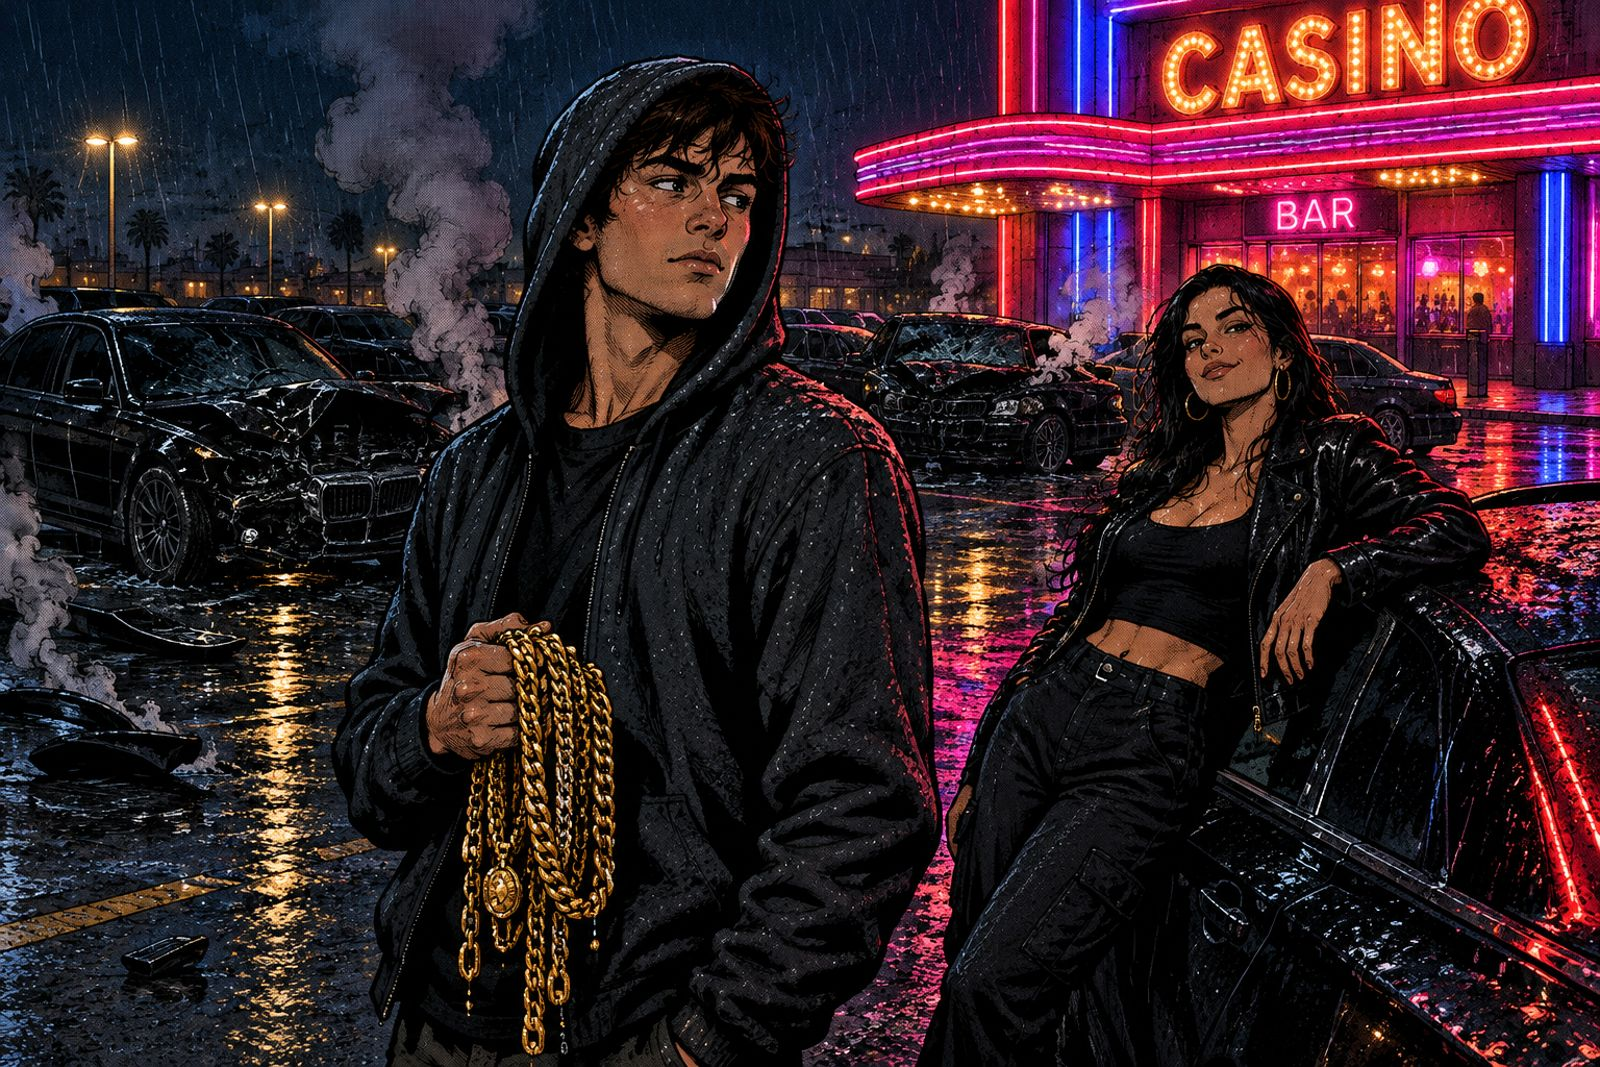
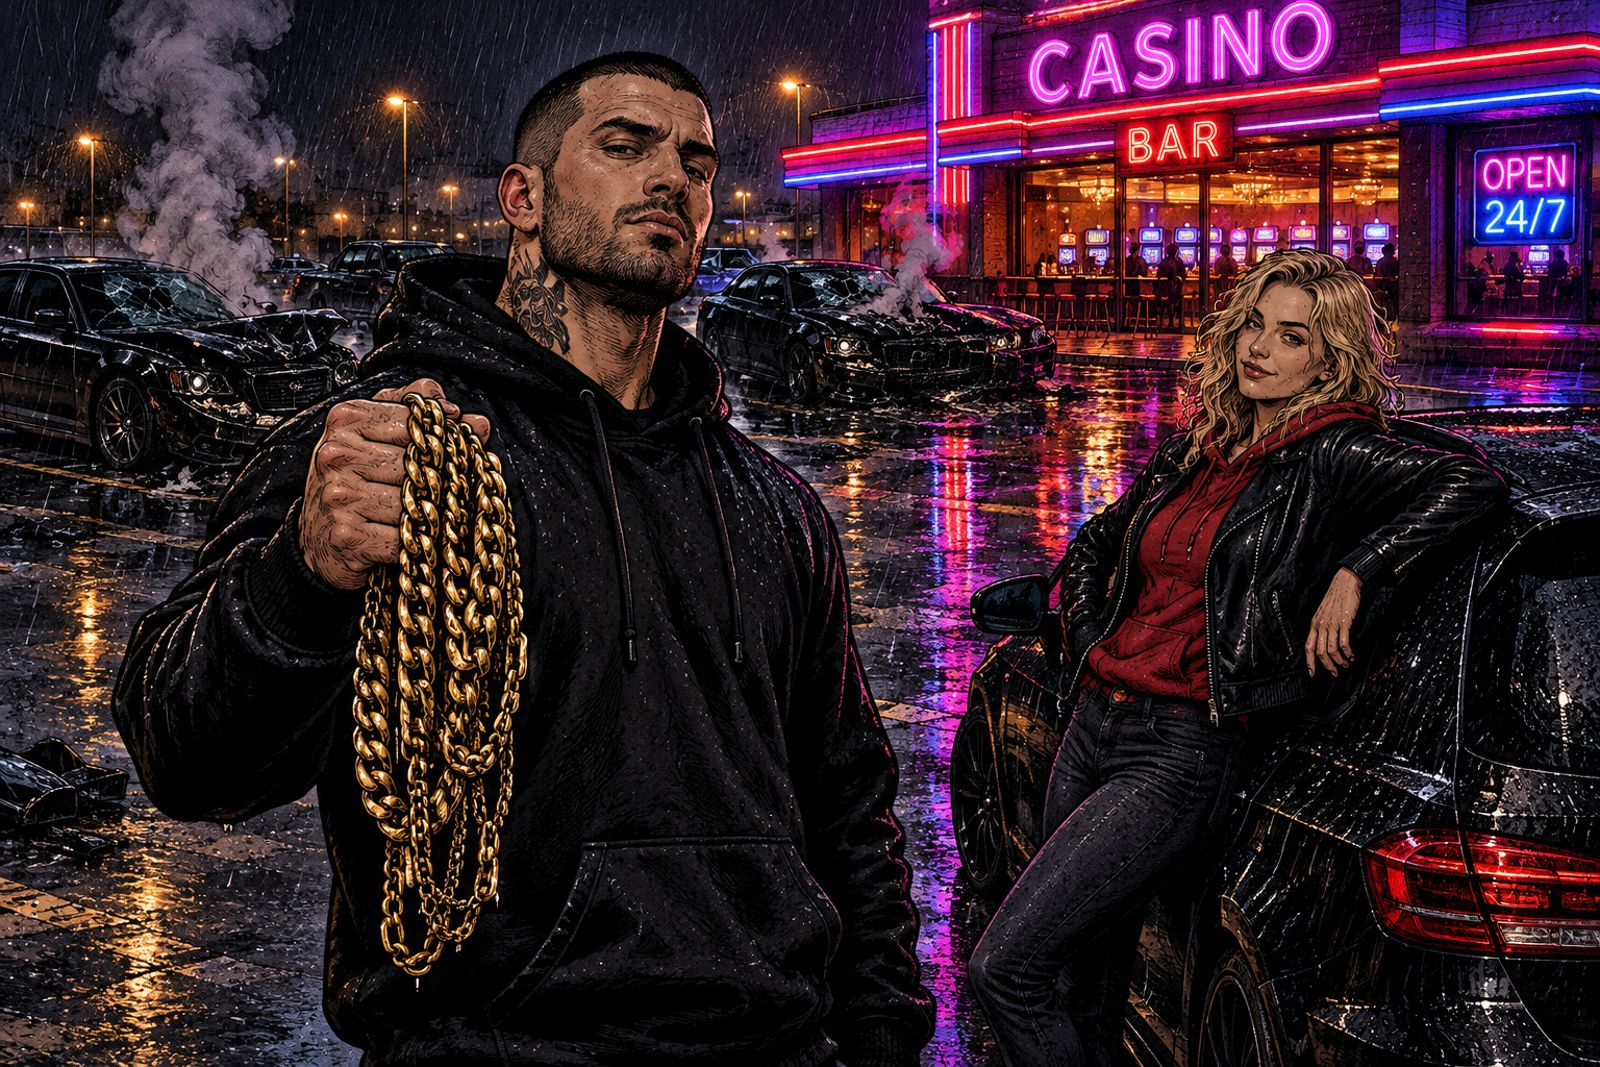
Hero-specific action button in the city and races: Marek 'Šrot' shoots (PAL), Lucie 'Kočka' uses nitro; separate gun button removed. Comic panels and endings with Lucie and Marek redrawn to match their character cards
Claude-Session: https://claude.ai/code/session_01Tt18V6mhpxc2nVgtq6weTV

diff --git a/public/index.html b/public/index.html
@@ -1298,7 +1298,7 @@ function comicScene(name){
   {const dy=(name==='plaza'||name==='plaza2'?21:19)*8*T;sc.y+=dy;for(const o of w.cars)o.y+=dy;for(const o of w.peds)o.y+=dy;for(const o of w.parts)o.y+=dy;for(const k of w.skids){k[1]+=dy;k[3]+=dy}}
   return{w,sc}}
 function renderPanel(){const el=$('scr-comic'),C=comic.C,P=C.panels[comic.i];
-  let h=`<div class="tag" style="margin-bottom:8px">${C.title}</div><div class="panel" id="panel">${P.art?`<div class="art" style="background-image:url(art/${P.art}.jpg)"></div>`:'<canvas id="pcv"></canvas>'}<div class="halftone"></div>`;
+  let h=`<div class="tag" style="margin-bottom:8px">${C.title}</div><div class="panel" id="panel">${P.art?`<div class="art" style="background-image:url(art/${P.art}.jpg?v=3)"></div>`:'<canvas id="pcv"></canvas>'}<div class="halftone"></div>`;
   if(P.who){if(P.who[0])h+=`<div class="inset l" style="background-image:url(art/${P.who[0]}.jpg)"></div>`;if(P.who[1])h+=`<div class="inset r" style="background-image:url(art/${P.who[1]}.jpg)"></div>`}
   if(P.cap)h+=`<div class="cap">${P.cap}</div>`;
   for(const b of P.bubs||[])h+=`<div class="bub ${b.shout?'shout':''}" style="left:${b.x}%;top:${b.y}%"><small>${WHO_NAME[b.w]}</small>${b.t}</div>`;
@@ -1320,19 +1320,19 @@ function startRoam(at,target){AN.ev('roam_start');hideAll();G.engineOff=false;$(
   const car=CARS.find(c=>c.id===SAVE.car)||CARS[0];const p=makeCar(Object.assign({},car),at.x,at.y,at.a,'player');p.handMul=SAVE.hero==='lucie'?1.15:1;w.player=p;w.cars.push(p);
   w.cam={x:p.x,y:p.y};w.zoom=baseZoom();for(let i=0;i<11;i++)spawnCiv(w);for(let i=0;i<48;i++)spawnPed(w,40,520);
   RS={roam:true,nitro:.6,nitroFill:SAVE.hero==='lucie'?.098:.07,target:target||SAVE.sel||null,enterCD:2.5};G.roamDist='';
-  $('hud').classList.add('on');if(isTouch)$('ctrl').classList.add('on');$('kU').style.display=SAVE.autoGas?'none':'block';$('kAt').textContent='NITRO';$('kA').classList.remove('hot');
+  $('hud').classList.add('on');if(isTouch)$('ctrl').classList.add('on');$('kU').style.display=SAVE.autoGas?'none':'block';$('kAt').textContent=SAVE.hero==='marek'?'PAL':'NITRO';$('kA').classList.remove('hot');
   $('hMainL').textContent='ČTVRŤ';$('hMain').classList.add('small');$('bust').style.display='none';$('center').textContent='';$('obj').classList.add('on');
   $('hint').textContent=isTouch?'':'←→ řízení • ↑ plyn • ↓ brzda • MEZERNÍK nitro • SHIFT smyk • C kamera • R rádio • P pauza';if(isTouch&&effSteer()==='wheel'&&!SAVE.wheelTip){SAVE.wheelTip=1;save();floatMsg('🛞 TOČ VOLANTEM PRSTEM',3);}
   Snd.setCar&&Snd.setCar(SAVE.car);Snd.startMusic(false);Snd.setStyle(SAVE.radio||'macht');Snd.rain(w.rain);drawMinimapBg();setTimeout(()=>{const a=$('area');if(G.mode==='roam'){a.textContent='📻 '+STY[Snd.style].name;a.classList.add('on');areaT=2.2}},2600)}
 let areaT=0;
-function freeGun(w,p,dt){RS.gCD=(RS.gCD||0)-dt;if(RS.gOver){RS.gHeat-=dt*.45;if(RS.gHeat<=.25)RS.gOver=false}else RS.gHeat=Math.max(0,(RS.gHeat||0)-dt*.3);
-  if(G.keys.f&&!RS.gOver&&RS.gCD<=0){RS.gCD=.1;let a=p.a,best=null,bd=1e9;for(const c of w.cars){if(c===p||c.wreck||c.parked)continue;const dx=c.x-p.x,dy=c.y-p.y,d=Math.hypot(dx,dy);if(d>480)continue;const da=Math.abs(wrapA(Math.atan2(dy,dx)-p.a));if(da<.5&&d<bd){bd=d;best=c}}
+function freeGun(w,p,dt,fire){RS.gCD=(RS.gCD||0)-dt;if(RS.gOver){RS.gHeat-=dt*.45;if(RS.gHeat<=.25)RS.gOver=false}else RS.gHeat=Math.max(0,(RS.gHeat||0)-dt*.3);
+  if(fire&&!RS.gOver&&RS.gCD<=0){RS.gCD=.1;let a=p.a,best=null,bd=1e9;for(const c of w.cars){if(c===p||c.wreck||c.parked)continue;const dx=c.x-p.x,dy=c.y-p.y,d=Math.hypot(dx,dy);if(d>480)continue;const da=Math.abs(wrapA(Math.atan2(dy,dx)-p.a));if(da<.5&&d<bd){bd=d;best=c}}
     if(best)a=Math.atan2(best.y-p.y,best.x-p.x);a+=rr(-.05,.05);const ca=Math.cos(p.a),sa=Math.sin(p.a);
     w.bullets.push({x:p.x+ca*p.L*.55-sa*6,y:p.y+sa*p.L*.55+ca*6,vx:Math.cos(a)*950+p.vx,vy:Math.sin(a)*950+p.vy,life:.5,dmg:12});w.muzzle=.05;Snd.shot();RS.gHeat+=.055;if(RS.gHeat>=1){RS.gHeat=1;RS.gOver=true;floatMsg('PŘEHŘÁTO!',.7)}}
-  w.muzzle=Math.max(0,(w.muzzle||0)-dt);const k=$('kF');k.style.setProperty('--p',((1-(RS.gHeat||0))*100)+'%');k.classList.toggle('hot',!!RS.gOver)}
+  w.muzzle=Math.max(0,(w.muzzle||0)-dt)}
 function updateRoam(dt){const w=G.world,p=w.player;
-  const ctl=playerCtl();const act=G.keys.a;freeGun(w,p,dt);
-  if(act&&!RS.aPrev){RS.nLatch=!RS.nLatch&&RS.nitro>.08}RS.aPrev=act;if(RS.nLatch&&RS.nitro>.02){if(!p.boost)Snd.nitro();p.boost=true;RS.nitro=Math.max(0,RS.nitro-.42*dt)}else{p.boost=false;RS.nLatch=false;RS.nitro=Math.min(1,RS.nitro+RS.nitroFill*dt)}$('kA').style.setProperty('--p',(RS.nitro*100)+'%');$('kA').classList.toggle('hot',!!RS.nLatch);
+  const ctl=playerCtl();const act=G.keys.a;
+  if(SAVE.hero==='marek'){freeGun(w,p,dt,act);p.boost=false;$('kA').style.setProperty('--p',((1-(RS.gHeat||0))*100)+'%');$('kA').classList.toggle('hot',!!RS.gOver)}else{if(act&&!RS.aPrev){RS.nLatch=!RS.nLatch&&RS.nitro>.08}RS.aPrev=act;if(RS.nLatch&&RS.nitro>.02){if(!p.boost)Snd.nitro();p.boost=true;RS.nitro=Math.max(0,RS.nitro-.42*dt)}else{p.boost=false;RS.nLatch=false;RS.nitro=Math.min(1,RS.nitro+RS.nitroFill*dt)}$('kA').style.setProperty('--p',(RS.nitro*100)+'%');$('kA').classList.toggle('hot',!!RS.nLatch)}
   updateWorld(w,dt,ctl);driftUpdate(p,w,dt,true);if(p.hp<p.maxhp)p.hp=Math.min(p.maxhp,p.hp+dt*3);if(p.hp<=5)p.hp=5;
   const sp=Math.hypot(p.vx,p.vy);w.cam.x=lerp(w.cam.x,p.x+p.vx*.42,Math.min(1,dt*4));w.cam.y=lerp(w.cam.y,p.y+p.vy*.42,Math.min(1,dt*4));
   w.zoom=lerp(w.zoom||baseZoom(),baseZoom()*(1-clamp(sp/p.st.max,0,1.3)*.2),Math.min(1,dt*2));shakeA=Math.max(0,shakeA-dt*30);
@@ -1378,7 +1378,7 @@ function beginRace(L){hideAll();const w=newWorld({rain:L.rain,dark:L.dark,civMax
   w.cam={x:p.x,y:p.y};for(const c of w.cars)c.frozen=true;
   $('hud').classList.add('on');if(isTouch)$('ctrl').classList.add('on');
   $('kU').style.display=SAVE.autoGas?'none':'block';
-  $('kAt').textContent=L.type==='race'?'NITRO':'PAL';
+  $('kAt').textContent=L.type==='race'&&SAVE.hero!=='marek'?'NITRO':'PAL';
   $('hint').textContent=isTouch?'':(L.type==='race'?'←→ řízení • ↑ plyn • ↓ brzda • MEZERNÍK nitro • SHIFT smyk • C kamera • R rádio • P pauza':'←→ řízení • ↑ plyn • ↓ brzda • MEZERNÍK střelba • P pauza');
   $('keyB').style.display='none';G.engineOff=false;
   $('hMainL').textContent=L.type==='race'?'POZICE':L.kills?'ZNIČENO':L.time?'ČAS':'DO CÍLE';$('hMain').classList.remove('small');$('obj').classList.remove('on');$('area').classList.remove('on');
@@ -1510,7 +1510,7 @@ let lastEff='';function applySteerMode(){const m=effSteer();lastEff=m;document.b
 function updateRace(dt){const w=G.world,p=w.player,L=RS.L;RS.t+=dt;
   if(RS.count>0){RS.count-=dt;const n=Math.ceil(RS.count-.4);$('center').textContent=RS.count>.4?(L.type==='race'?String(n):'JEĎ!'):'JEĎ!';if(RS.count<=0){for(const c of w.cars)c.frozen=false;floatMsg('JEĎ!',.8)}}
   else if(msgT>0){msgT-=dt;if(msgT<=0)$('center').textContent=''}
-  const ctl=RS.end?{thr:-1,steer:0}:playerCtl();if(L.type==='race'&&!RS.end&&RS.count<=0)freeGun(w,p,dt);
+  const ctl=RS.end?{thr:-1,steer:0}:playerCtl();const shR=L.type==='race'&&SAVE.hero==='marek';if(shR&&!RS.end&&RS.count<=0)freeGun(w,p,dt,G.keys.a);
   // action
   const act=G.keys.a&&!RS.end&&RS.count<=0;
   if(L.type==='chase'){RS.fireCD-=dt;if(RS.over){RS.heat-=dt*.45;if(RS.heat<=.25)RS.over=false}else RS.heat=Math.max(0,RS.heat-dt*.32);
@@ -1519,7 +1519,7 @@ function updateRace(dt){const w=G.world,p=w.player,L=RS.L;RS.t+=dt;
       w.bullets.push({x:p.x+ca*p.L*.55-sa*6,y:p.y+sa*p.L*.55+ca*6,vx:Math.cos(a)*950+p.vx,vy:Math.sin(a)*950+p.vy,life:.5,dmg:10*RS.dmgMul});w.muzzle=.05;Snd.shot();RS.heat+=RS.heatPer;if(RS.heat>=1){RS.heat=1;RS.over=true;floatMsg('PŘEHŘÁTO!',.7)}}
     w.muzzle=Math.max(0,(w.muzzle||0)-dt);
     $('kA').style.setProperty('--p',((1-RS.heat)*100)+'%');$('kA').classList.toggle('hot',RS.over);
-  }else{if(act&&!RS.aPrev){RS.nLatch=!RS.nLatch&&RS.nitro>.08}RS.aPrev=act;if(RS.nLatch&&RS.nitro>.02){if(!p.boost)Snd.nitro();p.boost=true;RS.nitro=Math.max(0,RS.nitro-.42*dt)}else{p.boost=false;RS.nLatch=false;RS.nitro=Math.min(1,RS.nitro+RS.nitroFill*dt)}$('kA').style.setProperty('--p',(RS.nitro*100)+'%');$('kA').classList.toggle('hot',!!RS.nLatch);}
+  }else if(shR){$('kA').style.setProperty('--p',((1-(RS.gHeat||0))*100)+'%');$('kA').classList.toggle('hot',!!RS.gOver)}else{if(act&&!RS.aPrev){RS.nLatch=!RS.nLatch&&RS.nitro>.08}RS.aPrev=act;if(RS.nLatch&&RS.nitro>.02){if(!p.boost)Snd.nitro();p.boost=true;RS.nitro=Math.max(0,RS.nitro-.42*dt)}else{p.boost=false;RS.nLatch=false;RS.nitro=Math.min(1,RS.nitro+RS.nitroFill*dt)}$('kA').style.setProperty('--p',(RS.nitro*100)+'%');$('kA').classList.toggle('hot',!!RS.nLatch);}
   updateWorld(w,dt,ctl);if(!RS.end&&RS.count<=0)driftUpdate(p,w,dt,false);
   for(const c of w.cars)if(w.route&&(c.kind!=='civ'))progress(w,c);
   // camera
@@ -1723,7 +1723,7 @@ function frame(now){const dt=Math.min(REC?.1:.033,(now-last)/1000);last=now;
       const Zm=baseZoom()*1.15*(G.menuZoom||1);if($('scr-menu').classList.contains('on')&&w.userPan){}else if($('scr-menu').classList.contains('on')&&w.stage){const tx=w.stage.x-VW*.17/Zm+Math.sin(w.t*.15)*30,ty=w.stage.y-VH*.14/Zm;if(Math.hypot(w.cam.x-tx,w.cam.y-ty)>900){w.cam.x=tx;w.cam.y=ty}w.cam.x=lerp(w.cam.x,tx,dt*1.5);w.cam.y=lerp(w.cam.y,ty,dt*1.5)}else if(amb.tgt){w.cam.x=lerp(w.cam.x,amb.tgt.x,dt*.8);w.cam.y=lerp(w.cam.y,amb.tgt.y,dt*.8)}w.zoom=Zm}}}
   if($('scr-garage').classList.contains('on')&&typeof R3!=='undefined'&&R3.ok){if(R3.concept&&(!R3.gCar||G.g3!==gList()[gIdx].id+R3.tuneKey(gList()[gIdx].id))){garage3D();if(!$('gstage'))renderGarage()}{const r=$('gstage')&&$('gstage').getBoundingClientRect();R3.gView=r&&r.width?{x:r.left+r.width/2,y:r.top+r.height/2,w:r.width,h:r.height}:null}if(R3.garageRender(dt)){ctx.clearRect(0,0,VW,VH);requestAnimationFrame(frame);return}}
   const w=G.world;const O3={labels:menuOn()&&(G.menuZoom||1)<.8,arrow:G.mode==='race',arrowTo:G.mode==='roam'&&RS?RS.arrowTo:null,markers:G.mode==='roam'?MARKERS():null};
-  if(w&&typeof R3!=='undefined'&&R3.ok){R3.camMode=(G.mode==='roam'||G.mode==='race')?(SAVE.cam||'chase'):(G.mode==='ambient'||G.mode==='promo')?'cine':'top';document.body.classList.toggle('driving',G.mode==='roam'||G.mode==='race');document.body.classList.toggle('gun',G.mode==='roam'||(G.mode==='race'&&!!RS&&!!RS.L&&RS.L.type==='race'));document.body.classList.toggle('cock',R3.camMode==='cockpit'&&!!(w.player&&R3.cars.get(w.player)&&R3.cars.get(w.player).userData.concept));R3.render(w,O3,dt);overlay3D(ctx,w,VW,VH,O3)}else if(w&&G.mode!=='ambient'&&G.mode!=='promo')render(ctx,w,VW,VH,w.cam,w.zoom||baseZoom(),{labels:menuOn()&&(G.menuZoom||1)<.8,arrow:G.mode==='race',arrowTo:G.mode==='roam'&&RS?RS.arrowTo:null,markers:G.mode==='roam'?MARKERS():null});
+  if(w&&typeof R3!=='undefined'&&R3.ok){R3.camMode=(G.mode==='roam'||G.mode==='race')?(SAVE.cam||'chase'):(G.mode==='ambient'||G.mode==='promo')?'cine':'top';document.body.classList.toggle('driving',G.mode==='roam'||G.mode==='race');document.body.classList.toggle('cock',R3.camMode==='cockpit'&&!!(w.player&&R3.cars.get(w.player)&&R3.cars.get(w.player).userData.concept));R3.render(w,O3,dt);overlay3D(ctx,w,VW,VH,O3)}else if(w&&G.mode!=='ambient'&&G.mode!=='promo')render(ctx,w,VW,VH,w.cam,w.zoom||baseZoom(),{labels:menuOn()&&(G.menuZoom||1)<.8,arrow:G.mode==='race',arrowTo:G.mode==='roam'&&RS?RS.arrowTo:null,markers:G.mode==='roam'?MARKERS():null});
   }catch(err){console.error(err)}
   requestAnimationFrame(frame)}
 requestAnimationFrame(frame);
@@ -1742,7 +1742,7 @@ import {KTX2Loader} from './vendor/jsm/loaders/KTX2Loader.js';
 import {MeshoptDecoder} from './vendor/jsm/libs/meshopt_decoder.module.js';
 import * as SkeletonUtils from './vendor/jsm/utils/SkeletonUtils.js';
 window.THREE=THREE;window.TADD={EffectComposer,RenderPass,UnrealBloomPass,OutputPass,GLTFLoader,RGBELoader,SkeletonUtils,DRACOLoader,KTX2Loader,MeshoptDecoder};
-const s=document.createElement('script');s.src='r3.js?v=63';document.body.appendChild(s);
+const s=document.createElement('script');s.src='r3.js?v=64';document.body.appendChild(s);
 </script>
 </body>
 </html>
